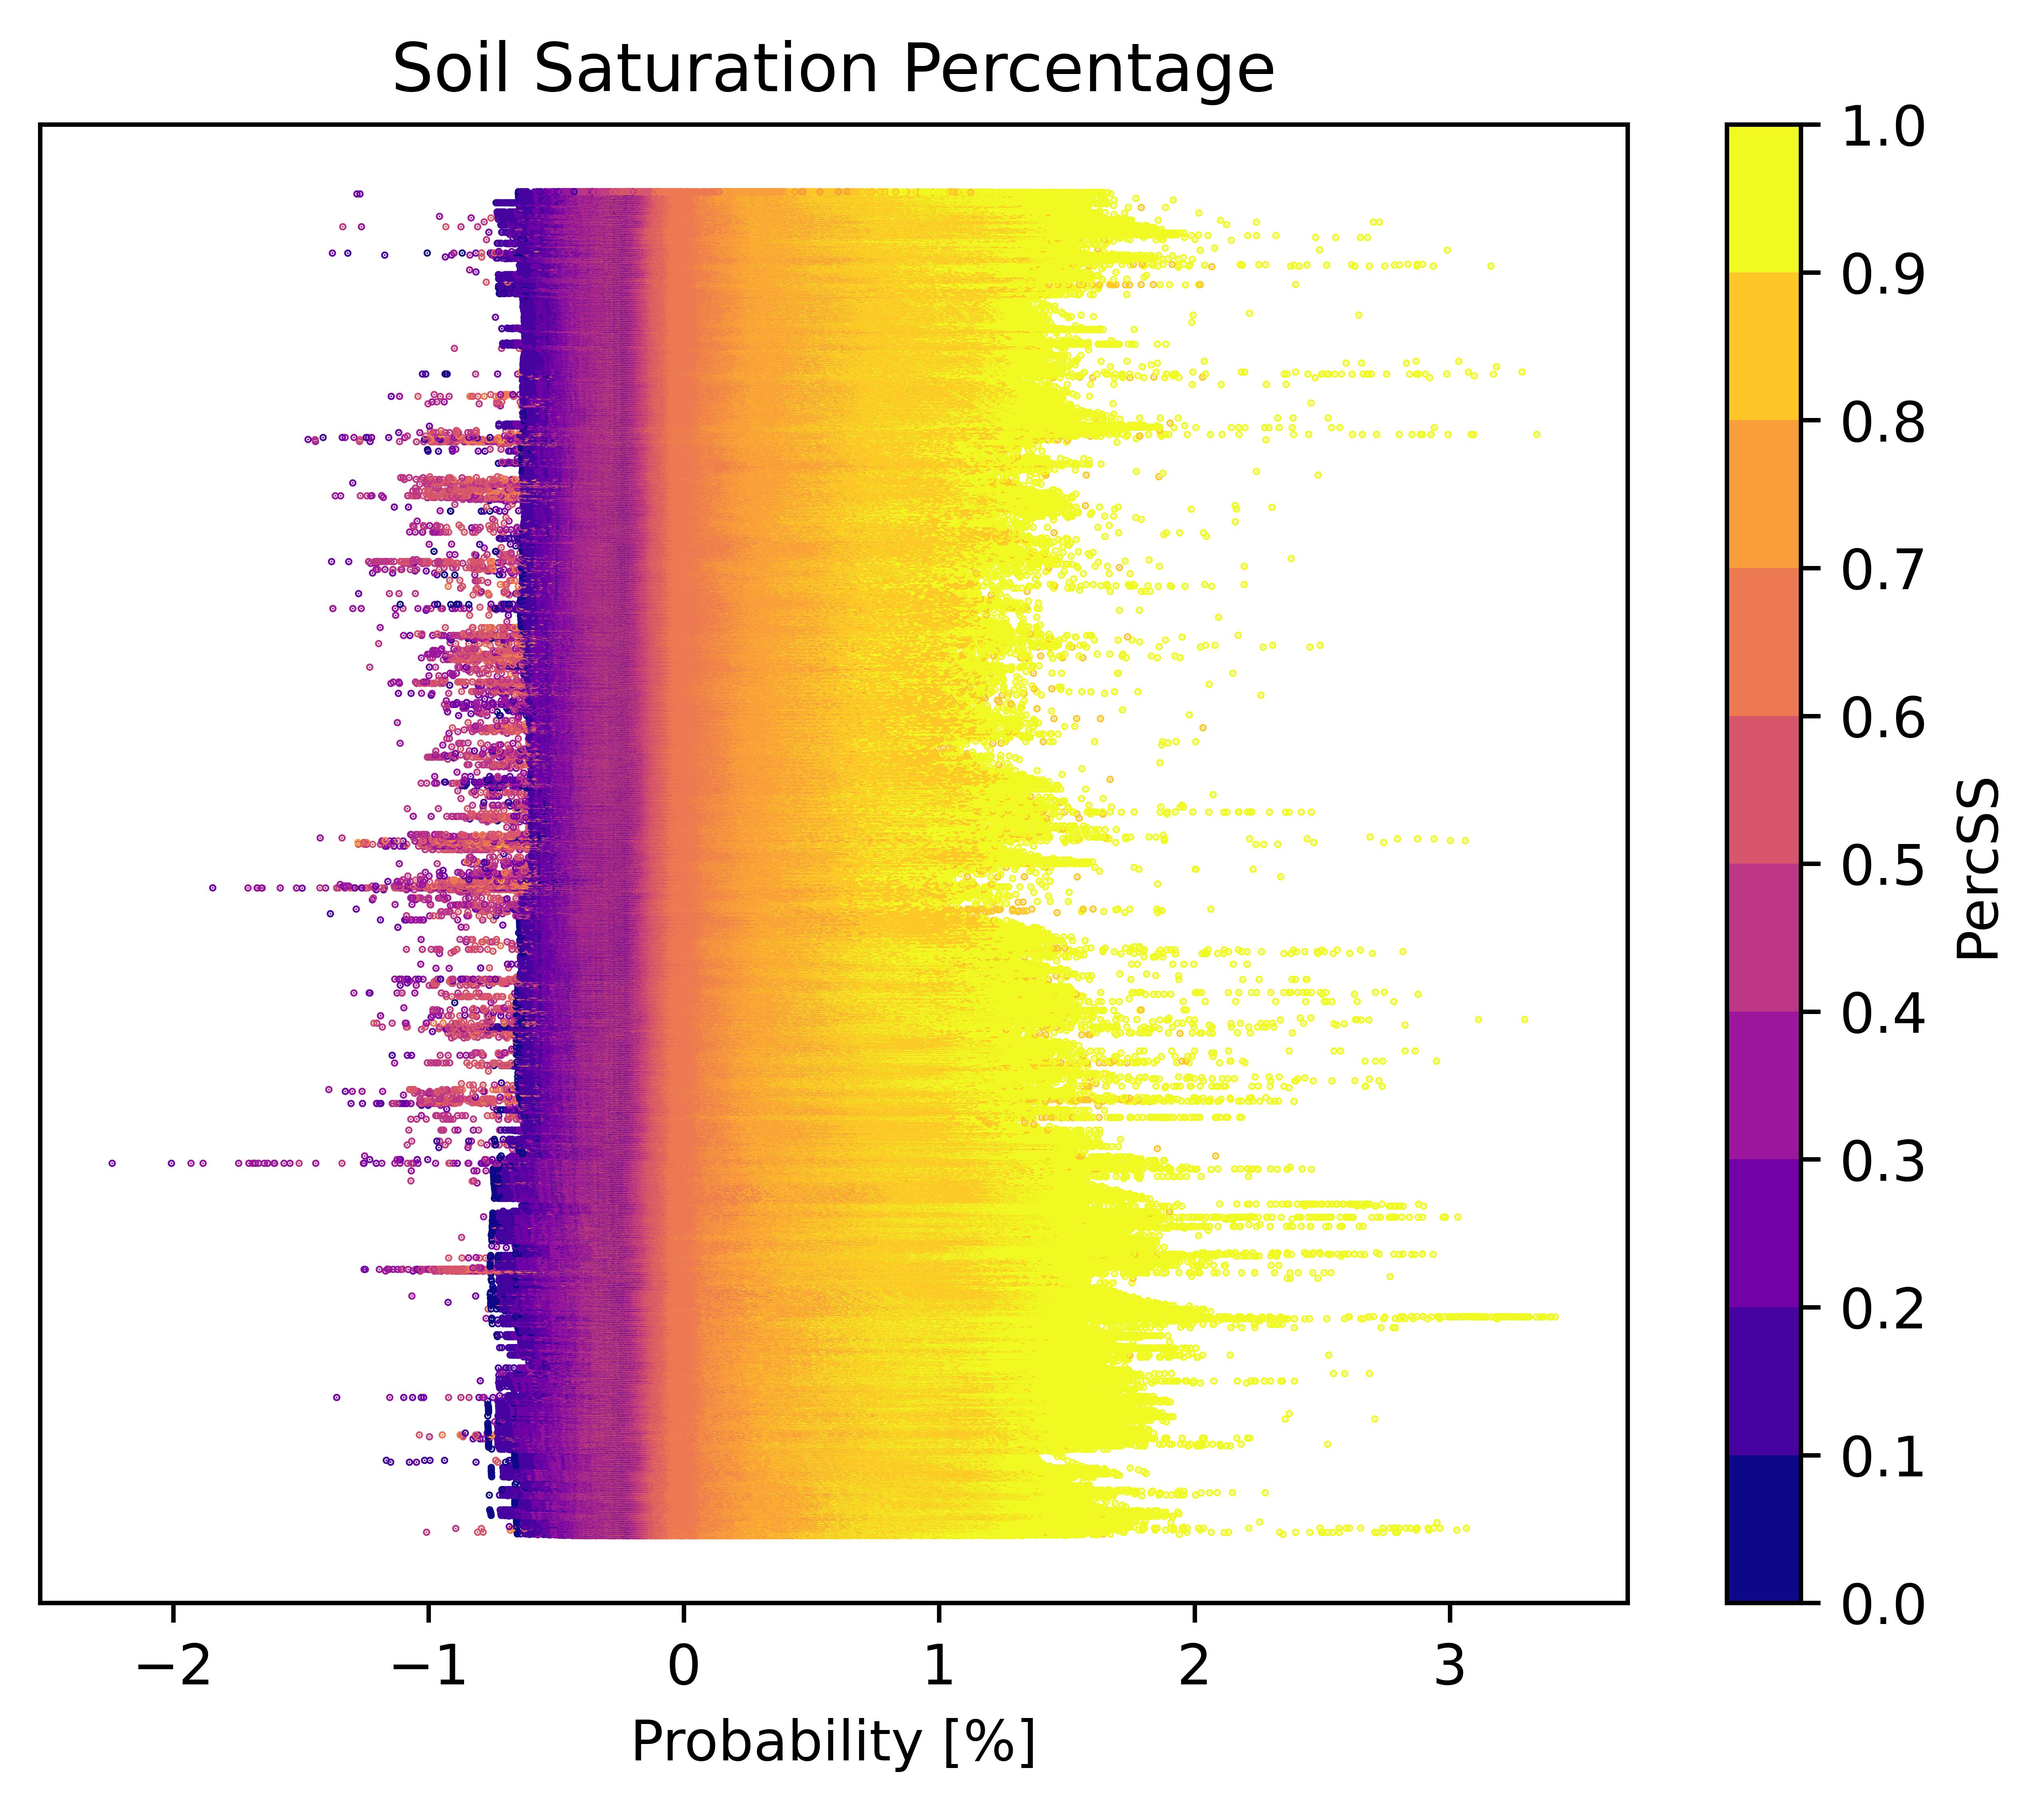
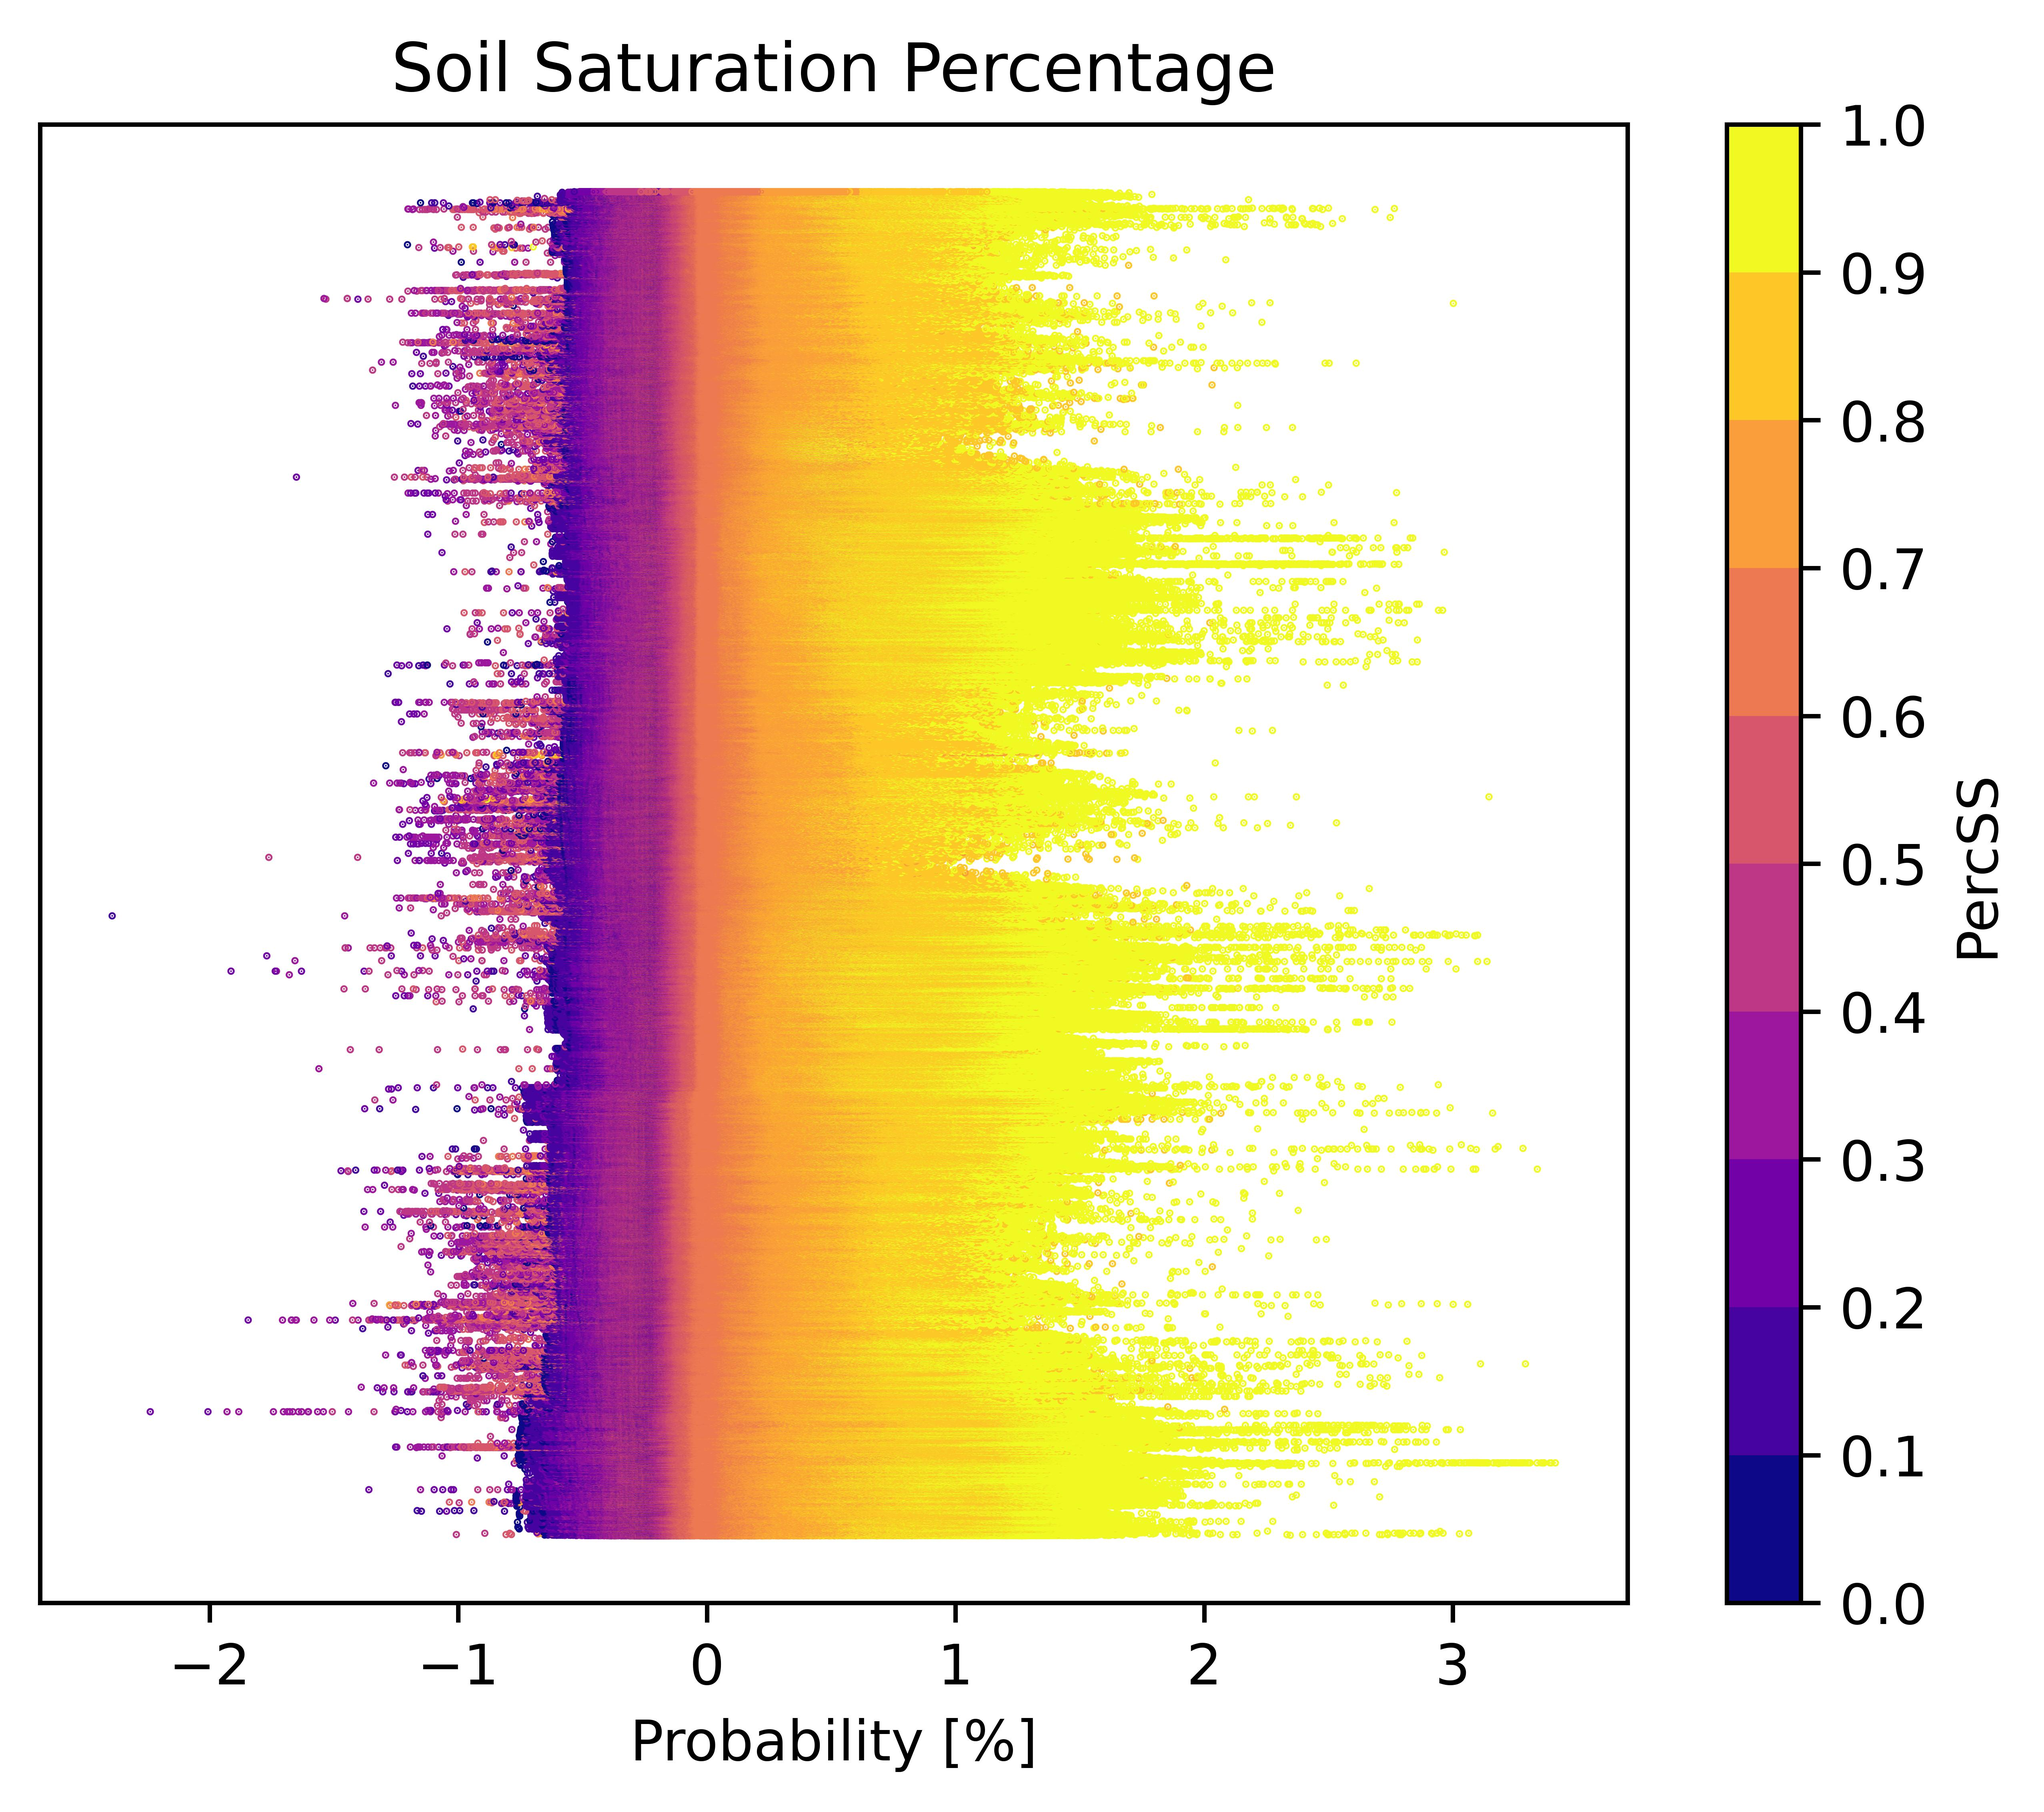
Plotted the new shapley values for the verification period 2021-2023.

diff --git a/Scripts/Processed/34_Plot_Distribution_Shapley_Values.py b/Scripts/Processed/34_Plot_Distribution_Shapley_Values.py
@@ -11,7 +11,8 @@ import matplotlib.colors as mcolors
 # Runtime: the script can take up to 15 minutes to compute in serial.
 
 # INPUT PARAMETERS DESCRIPTION
-# Year (integer, in YYYY format): year to consider.
+# TheDateTime_Start_S (date): start date of the beginning accumulation period to consider.
+# TheDateTime_Start_F (date): final date of the beginning accumulation period to consider.
 # Acc (integer, in hours): accumulation period.
 # Disc_Acc (integer, in hours): discretization for the accumulation peiods to consider.
 # Git_Repo (string): repository's local path.
@@ -26,7 +27,8 @@ import matplotlib.colors as mcolors
 # DirOUT (string): relative path of the directory containing the probabilities of having a flash flood event in a given grid-box.
 
 # INPUT PARAMETERS
-Year = 2021
+TheDateTime_Start_S = datetime(2021, 1, 1, 0)
+TheDateTime_Start_F = datetime(2023, 12, 31, 12)
 Acc = 12
 Disc_Acc = 12
 Git_Repo = "/ec/vol/ecpoint_dev/mofp/Papers_2_Write/Use_FlashFloodsRep_4Verif_USA"
@@ -48,8 +50,6 @@ mask_vals = mv.values(mask)
 mask_index = np.where(mask_vals == 1)[0]
 
 # Reading the shapley and predictors values
-TheDateTime_Start_S = datetime(Year, 1, 1, 0)
-TheDateTime_Start_F = datetime(Year, 12, 31, 0)
 TheDateTime_Start = TheDateTime_Start_S
 while TheDateTime_Start <= TheDateTime_Start_F:
 
@@ -111,20 +111,21 @@ MainDirOUT = Git_Repo + "/" + DirOUT
 if not os.path.exists(MainDirOUT):
       os.makedirs(MainDirOUT)
 
+fig, ax = plt.subplots()
 boundaries = [0, 50, 100, 200, 500, 1000]
 norm = mcolors.BoundaryNorm(boundaries, ncolors=plt.cm.plasma.N, clip=True)
 plt.scatter(shap[0]*100, indices, s=0.1, c=stdorog, cmap="plasma", norm=norm)
-plt.title("Standard Deviation of Orography")
+plt.title("Shap Values for Standard Deviation of Orography")
 plt.xlabel("Probability [%]")
 plt.yticks([])
 sm = plt.cm.ScalarMappable(cmap="plasma", norm=norm)
 sm.set_array([])
-cbar = plt.colorbar(sm, ticks=boundaries)
-cbar.set_label("StdOrog")
+cbar = plt.colorbar(sm, ticks=boundaries, ax=ax)
 FileOUT = MainDirOUT + "/StdOrog.png"
 plt.savefig(FileOUT, format="jpeg", bbox_inches="tight", dpi=1000)
 plt.close()
 
+fig, ax = plt.subplots()
 boundaries = [0, 1, 2, 5, 10, 20, 100]
 norm = mcolors.BoundaryNorm(boundaries, ncolors=plt.cm.plasma.N, clip=True)
 plt.scatter(shap[1]*100, indices, s=0.1, c=classRP, cmap="plasma", norm=norm)
@@ -133,12 +134,13 @@ plt.xlabel("Probability [%]")
 plt.yticks([])
 sm = plt.cm.ScalarMappable(cmap="plasma", norm=norm)
 sm.set_array([])
-cbar = plt.colorbar(sm, ticks=boundaries)
+cbar = plt.colorbar(sm, ticks=boundaries, ax=ax)
 cbar.set_label("ClassRP")
 FileOUT = MainDirOUT + "/ClassRP.png"
 plt.savefig(FileOUT, format="jpeg", bbox_inches="tight", dpi=1000)
 plt.close()
 
+fig, ax = plt.subplots()
 boundaries = [0, 1, 2, 5, 10, 20, 100, 1000]
 norm = mcolors.BoundaryNorm(boundaries, ncolors=plt.cm.plasma.N, clip=True)
 plt.scatter(shap[2]*100, indices, s=0.1, c=ratioEM, cmap="plasma", norm=norm)
@@ -147,12 +149,13 @@ plt.xlabel("Probability [%]")
 plt.yticks([])
 sm = plt.cm.ScalarMappable(cmap="plasma", norm=norm)
 sm.set_array([])
-cbar = plt.colorbar(sm, ticks=boundaries)
+cbar = plt.colorbar(sm, ticks=boundaries, ax=ax)
 cbar.set_label("RatioEM")
 FileOUT = MainDirOUT + "/RatioEM.png"
 plt.savefig(FileOUT, format="jpeg", bbox_inches="tight", dpi=1000)
 plt.close()
 
+fig, ax = plt.subplots()
 boundaries = [0, 0.1, 0.2, 0.3, 0.4, 0.5, 0.6, 0.7, 0.8, 0.9, 1]
 norm = mcolors.BoundaryNorm(boundaries, ncolors=plt.cm.plasma.N, clip=True)
 plt.scatter(shap[3]*100, indices, s=0.1, c=percSS, cmap="plasma", norm=norm)
@@ -161,12 +164,13 @@ plt.xlabel("Probability [%]")
 plt.yticks([])
 sm = plt.cm.ScalarMappable(cmap="plasma", norm=norm)
 sm.set_array([])
-cbar = plt.colorbar(sm, ticks=boundaries)
+cbar = plt.colorbar(sm, ticks=boundaries, ax=ax)
 cbar.set_label("PercSS")
 FileOUT = MainDirOUT + "/PercSS.png"
 plt.savefig(FileOUT, format="jpeg", bbox_inches="tight", dpi=1000)
 plt.close()
 
+fig, ax = plt.subplots()
 boundaries = [0, 1, 2, 3, 4, 5, 6, 7]
 norm = mcolors.BoundaryNorm(boundaries, ncolors=plt.cm.plasma.N, clip=True)
 plt.scatter(shap[4]*100, indices, s=0.1, c=lai, cmap="plasma", norm=norm)
@@ -175,12 +179,13 @@ plt.xlabel("Probability [%]")
 plt.yticks([])
 sm = plt.cm.ScalarMappable(cmap="plasma", norm=norm)
 sm.set_array([])
-cbar = plt.colorbar(sm, ticks=boundaries)
+cbar = plt.colorbar(sm, ticks=boundaries, ax=ax)
 cbar.set_label("LAI")
 FileOUT = MainDirOUT + "/LAI.png"
 plt.savefig(FileOUT, format="jpeg", bbox_inches="tight", dpi=1000)
 plt.close()
 
+fig, ax = plt.subplots()
 boundaries = [0, 100, 500, 1000, 2000, 5000, 10000, 100000]
 norm = mcolors.BoundaryNorm(boundaries, ncolors=plt.cm.plasma.N, clip=True)
 plt.scatter(shap[5]*100, indices, s=0.1, c=pd, cmap="plasma", norm=norm)
@@ -189,7 +194,7 @@ plt.xlabel("Probability [%]")
 plt.yticks([])
 sm = plt.cm.ScalarMappable(cmap="plasma", norm=norm)
 sm.set_array([])
-cbar = plt.colorbar(sm, ticks=boundaries)
+cbar = plt.colorbar(sm, ticks=boundaries, ax=ax)
 cbar.set_label("PD")
 FileOUT = MainDirOUT + "/PD.png"
 plt.savefig(FileOUT, format="jpeg", bbox_inches="tight", dpi=1000)

diff --git a/Scripts/Processed/35_Plot_Map_Shapley_Values.py b/Scripts/Processed/35_Plot_Map_Shapley_Values.py
@@ -111,6 +111,7 @@ MainDirOUT = Git_Repo + "/" + DirOUT
 if not os.path.exists(MainDirOUT):
       os.makedirs(MainDirOUT)
 
+print("Plotting shap values for 'Standard Deviation of Orography'...")
 boundaries = [0, 50, 100, 200, 500, 1000]
 norm = mcolors.BoundaryNorm(boundaries, ncolors=plt.cm.plasma.N, clip=True)
 plt.scatter(shap[0]*100, indices, s=0.1, c=stdorog, cmap="plasma", norm=norm)
@@ -125,6 +126,7 @@ FileOUT = MainDirOUT + "/StdOrog.png"
 plt.savefig(FileOUT, format="jpeg", bbox_inches="tight", dpi=1000)
 plt.close()
 
+print("Plotting shap values for 'Return Period of Extreme Rainfall'...")
 boundaries = [0, 1, 2, 5, 10, 20, 100]
 norm = mcolors.BoundaryNorm(boundaries, ncolors=plt.cm.plasma.N, clip=True)
 plt.scatter(shap[1]*100, indices, s=0.1, c=classRP, cmap="plasma", norm=norm)
@@ -139,6 +141,7 @@ FileOUT = MainDirOUT + "/ClassRP.png"
 plt.savefig(FileOUT, format="jpeg", bbox_inches="tight", dpi=1000)
 plt.close()
 
+print("Plotting shap values for 'Ratio Extreme-Mean Rainfall'...")
 boundaries = [0, 1, 2, 5, 10, 20, 100, 1000]
 norm = mcolors.BoundaryNorm(boundaries, ncolors=plt.cm.plasma.N, clip=True)
 plt.scatter(shap[2]*100, indices, s=0.1, c=ratioEM, cmap="plasma", norm=norm)
@@ -153,6 +156,7 @@ FileOUT = MainDirOUT + "/RatioEM.png"
 plt.savefig(FileOUT, format="jpeg", bbox_inches="tight", dpi=1000)
 plt.close()
 
+print("Plotting shap values for 'Soil Saturation Percentage'...")
 boundaries = [0, 0.1, 0.2, 0.3, 0.4, 0.5, 0.6, 0.7, 0.8, 0.9, 1]
 norm = mcolors.BoundaryNorm(boundaries, ncolors=plt.cm.plasma.N, clip=True)
 plt.scatter(shap[3]*100, indices, s=0.1, c=percSS, cmap="plasma", norm=norm)
@@ -167,6 +171,7 @@ FileOUT = MainDirOUT + "/PercSS.png"
 plt.savefig(FileOUT, format="jpeg", bbox_inches="tight", dpi=1000)
 plt.close()
 
+print("Plotting shap values for 'Leaf Area Index'...")
 boundaries = [0, 1, 2, 3, 4, 5, 6, 7]
 norm = mcolors.BoundaryNorm(boundaries, ncolors=plt.cm.plasma.N, clip=True)
 plt.scatter(shap[4]*100, indices, s=0.1, c=lai, cmap="plasma", norm=norm)
@@ -181,6 +186,7 @@ FileOUT = MainDirOUT + "/LAI.png"
 plt.savefig(FileOUT, format="jpeg", bbox_inches="tight", dpi=1000)
 plt.close()
 
+print("Plotting shap values for 'Population Density'...")
 boundaries = [0, 100, 500, 1000, 2000, 5000, 10000, 100000]
 norm = mcolors.BoundaryNorm(boundaries, ncolors=plt.cm.plasma.N, clip=True)
 plt.scatter(shap[5]*100, indices, s=0.1, c=pd, cmap="plasma", norm=norm)

diff --git a/Scripts/Processed/36_Plot_Verif_Scores.py b/Scripts/Processed/36_Plot_Verif_Scores.py
@@ -154,7 +154,7 @@ total_bs = h_bs + m_bs + fa_bs + cn_bs
 h_chance_bs = (h_bs + fa_bs) * (h_bs + m_bs) / total_bs
 hr_bs = h_bs / (h_bs + m_bs) 
 far_bs = fa_bs / (fa_bs + cn_bs)
-bias_bs =  (h_bs + fa_bs) / (h_bs + m_bs)
+fb_bs =  (h_bs + fa_bs) / (h_bs + m_bs)
 pss_bs = (h_bs / (h_bs + m_bs)) - (fa_bs / (fa_bs + cn_bs))
 ets_bs = (h_bs - h_chance_bs) / (h_bs + m_bs + fa_bs - h_chance_bs)
 
@@ -227,8 +227,8 @@ plt.close()
 # Frequency Bias #
 ###############
 
-var = bias_bs
-VarName = "bias"
+var = fb_bs
+VarName = "fb"
 
 lower_error = np.percentile(var[:,1:], (100-CL)/2, axis = 1)
 upper_error = np.percentile(var[:,1:], (100 - (100-CL)/2), axis = 1)
